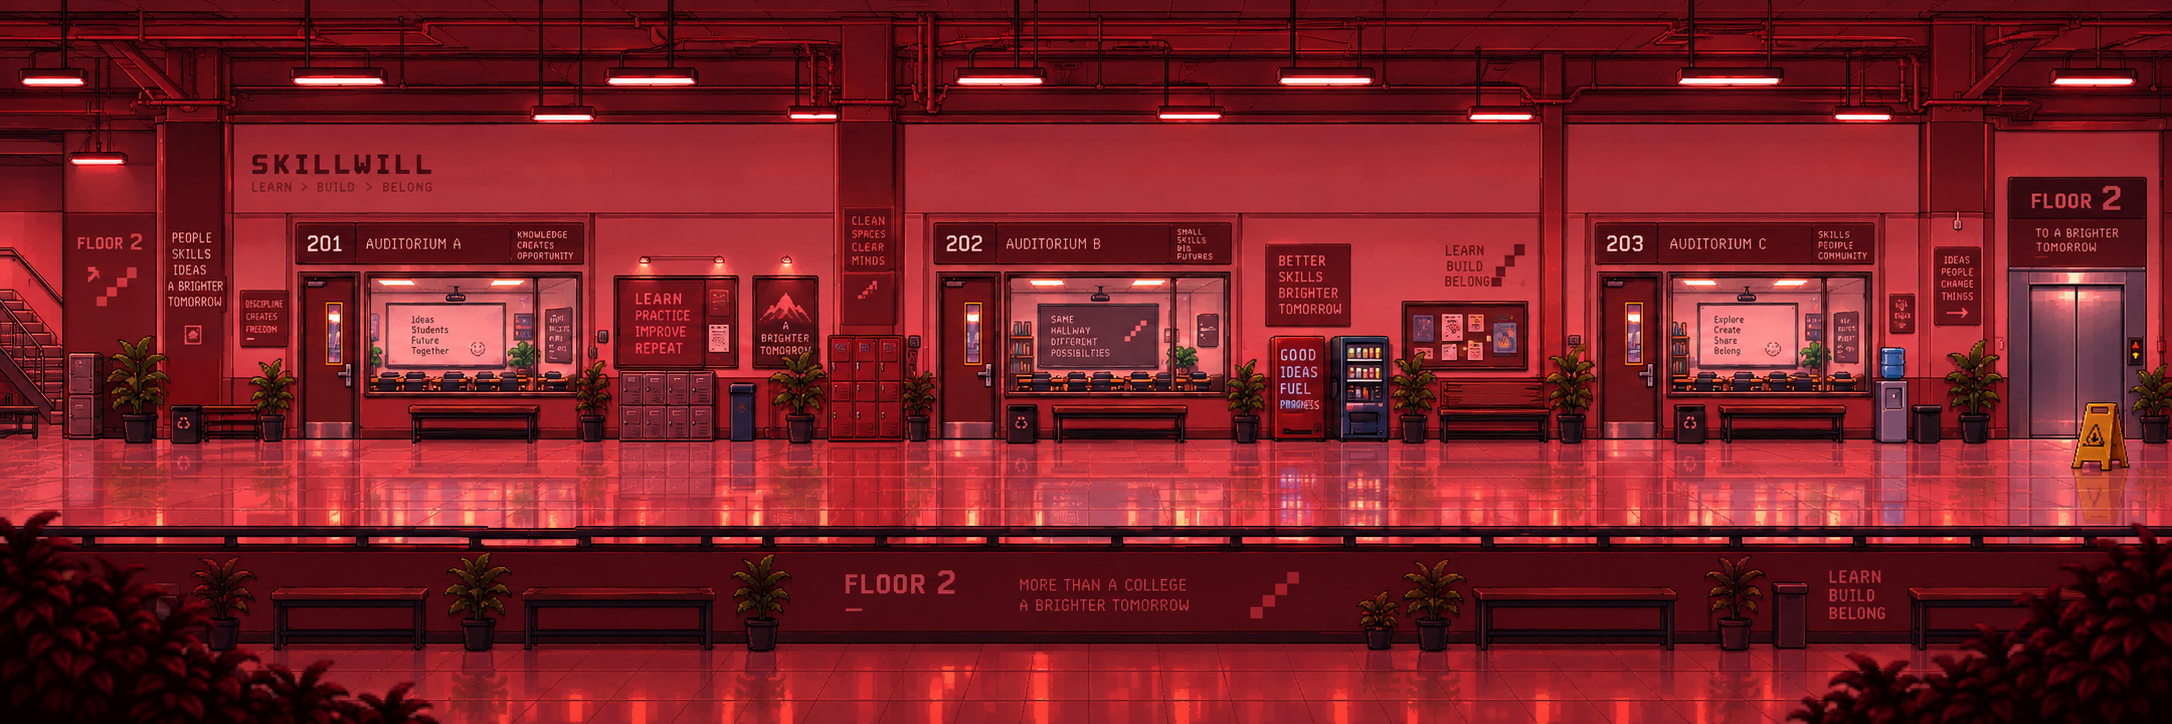
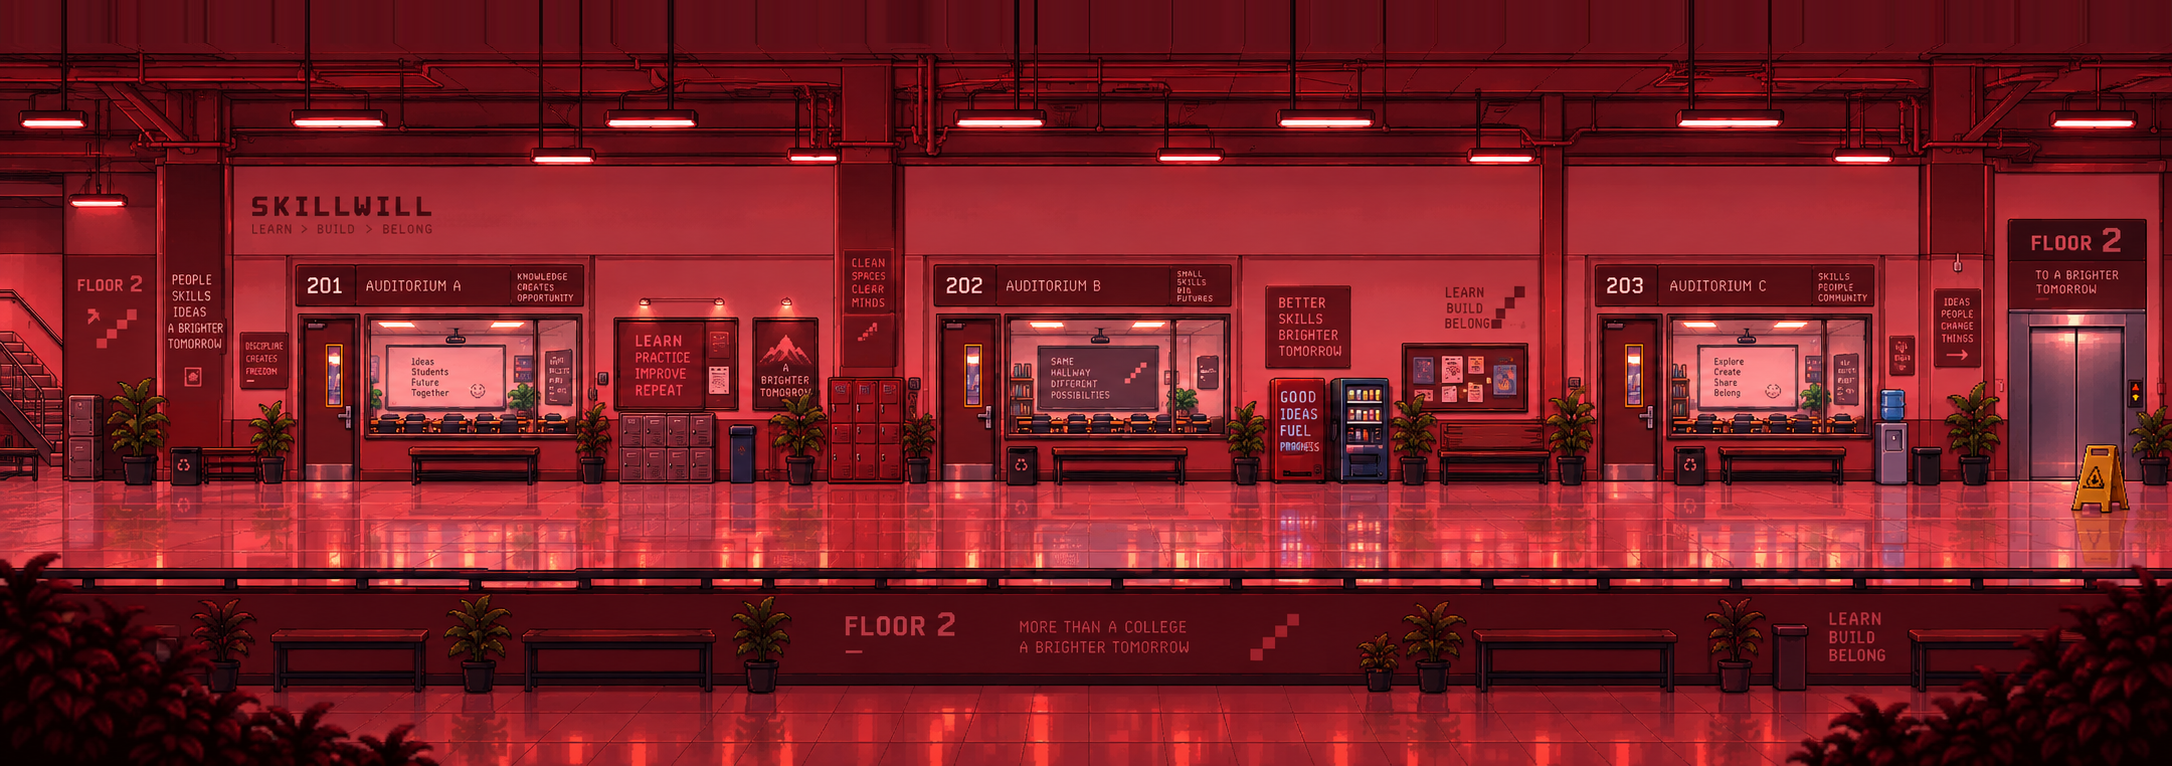
Make fullscreen opt-in only; fill every floor's background fully
- Remove the auto-startFullscreen() call on game start — it defaulted the
  game to fullscreen unasked, and triggering the Fullscreen API mid scene-
  transition is also the likely cause of the black screen on start.
  Fullscreen is now purely opt-in: press F at the title screen or anytime
  during play (wired in TitleScene and HUDScene) to toggle it via
  scale.toggleFullscreen(); the game stays windowed by default.
- Every floor's background left a visible gap of plain background color
  above and/or below the art (large on the short lobby/office floors,
  ~40px on the rest) because the source images were shorter than the
  camera viewport. Padded every level PNG in place by repeating its own
  top/bottom edge row (not adding blank space) so the art now fills the
  full viewport with zero gap on every floor, and updated each floor's
  groundY in floors.js to match (all now 480, i.e. WORLD.groundY, since
  the padding was sized specifically to make that true).

diff --git a/src/config/floors.js b/src/config/floors.js
@@ -3,24 +3,24 @@
 // edit this file — the FloorScene reads everything from here.
 //
 // Each floor's visual background is a real painted PNG at
-// public/assets/levels/<id>.png (native size 2172px wide; height varies —
-// short "band" floors like the lobby/office are ~250-275px tall, the
-// hallway/rooftop floors are 724px tall with a lot of decorative scenery
-// above the walkable strip and a bit of railing/branding below it).
+// public/assets/levels/<id>.png (native size 2172px wide, native heights
+// originally ranged from ~245px band floors up to 724px hallway/rooftop
+// floors). Every image has since been padded in place — by repeating its
+// own top/bottom edge row, not by adding blank space — so its floor line
+// lands at exactly WORLD.groundY and the art fills the full viewport with
+// no empty margin above or below, regardless of how tall the original art
+// was.
 //
-// `groundY` is the row (in that image's own native pixels, measured against
-// a fine 10px ruler overlay zoomed in on a real floor-contact object — a
-// person's shoes, a bench/chair leg, a planter base) where the floor
-// surface actually sits — i.e. where characters' feet should be. It is NOT
-// the image height: most of the tall images have several hundred px of
-// decoration below the real floor line (a glass railing + a branding
-// footer graphic), and a coarse/eyeballed measurement here is exactly what
-// causes Rati to visibly float or sink — get this one number right per
-// floor and everything else (camera framing, enemy placement) follows.
-// levelBuilder.js
-// uses groundY to shift every floor's background so its floor line lands
-// at the same world-space height (WORLD.groundY) no matter how tall or
-// short the source image is — see levelBuilder.js for the math.
+// `groundY` is the row (in that image's own native pixels) where the floor
+// surface actually sits — i.e. where characters' feet should be. Because
+// of the padding above it is 480 (== WORLD.groundY) for every floor right
+// now. It's still measured per floor (originally against a fine 10px ruler
+// overlay zoomed in on a real floor-contact object — a person's shoes, a
+// bench/chair leg, a planter base) and kept as an explicit field: if new,
+// unpadded art is ever dropped in for a floor, set this to that art's own
+// real floor row and levelBuilder.js will shift it to line up correctly —
+// a coarse/eyeballed measurement here is exactly what causes Rati to
+// visibly float or sink.
 // ---------------------------------------------------------------------------
 
 export const WORLD = {
@@ -38,23 +38,23 @@ export const FLOORS = [
     bg: 0xf5f5f0,
     ground: 0xcfcfc8,
     accent: 0xb8b8b0,
-    groundY: 248,
+    groundY: 480,
     hasCombat: false,
     enemies: { spider: 0, mob: 0 },
     intro: 'Welcome to Skillwill Tower. Head right to the elevator.'
   },
-  { id: 2, name: 'Floor 2', theme: 'red', bg: 0x5c1414, ground: 0x8a2020, accent: 0xc0392b, groundY: 438, hasCombat: true, enemies: { spider: 2, mob: 1 } },
-  { id: 3, name: 'Floor 3', theme: 'red', bg: 0x5c1414, ground: 0x8a2020, accent: 0xc0392b, groundY: 438, hasCombat: true, enemies: { spider: 3, mob: 1 } },
-  { id: 4, name: 'Floor 4', theme: 'blue', bg: 0x123049, ground: 0x1b4a70, accent: 0x2980b9, groundY: 438, hasCombat: true, enemies: { spider: 3, mob: 2 } },
-  { id: 5, name: 'Floor 5', theme: 'blue', bg: 0x123049, ground: 0x1b4a70, accent: 0x2980b9, groundY: 438, hasCombat: true, enemies: { spider: 3, mob: 2 } },
-  { id: 6, name: 'Floor 6', theme: 'yellow', bg: 0x5c4e0f, ground: 0x8a7317, accent: 0xf1c40f, groundY: 438, hasCombat: true, enemies: { spider: 4, mob: 2 } },
-  { id: 7, name: 'Floor 7', theme: 'yellow', bg: 0x5c4e0f, ground: 0x8a7317, accent: 0xf1c40f, groundY: 438, hasCombat: true, enemies: { spider: 4, mob: 2 } },
-  { id: 8, name: 'Floor 8', theme: 'purple', bg: 0x371a41, ground: 0x522862, accent: 0x8e44ad, groundY: 438, hasCombat: true, enemies: { spider: 4, mob: 3 } },
-  { id: 9, name: 'Floor 9', theme: 'purple', bg: 0x371a41, ground: 0x522862, accent: 0x8e44ad, groundY: 438, hasCombat: true, enemies: { spider: 4, mob: 3 } },
+  { id: 2, name: 'Floor 2', theme: 'red', bg: 0x5c1414, ground: 0x8a2020, accent: 0xc0392b, groundY: 480, hasCombat: true, enemies: { spider: 2, mob: 1 } },
+  { id: 3, name: 'Floor 3', theme: 'red', bg: 0x5c1414, ground: 0x8a2020, accent: 0xc0392b, groundY: 480, hasCombat: true, enemies: { spider: 3, mob: 1 } },
+  { id: 4, name: 'Floor 4', theme: 'blue', bg: 0x123049, ground: 0x1b4a70, accent: 0x2980b9, groundY: 480, hasCombat: true, enemies: { spider: 3, mob: 2 } },
+  { id: 5, name: 'Floor 5', theme: 'blue', bg: 0x123049, ground: 0x1b4a70, accent: 0x2980b9, groundY: 480, hasCombat: true, enemies: { spider: 3, mob: 2 } },
+  { id: 6, name: 'Floor 6', theme: 'yellow', bg: 0x5c4e0f, ground: 0x8a7317, accent: 0xf1c40f, groundY: 480, hasCombat: true, enemies: { spider: 4, mob: 2 } },
+  { id: 7, name: 'Floor 7', theme: 'yellow', bg: 0x5c4e0f, ground: 0x8a7317, accent: 0xf1c40f, groundY: 480, hasCombat: true, enemies: { spider: 4, mob: 2 } },
+  { id: 8, name: 'Floor 8', theme: 'purple', bg: 0x371a41, ground: 0x522862, accent: 0x8e44ad, groundY: 480, hasCombat: true, enemies: { spider: 4, mob: 3 } },
+  { id: 9, name: 'Floor 9', theme: 'purple', bg: 0x371a41, ground: 0x522862, accent: 0x8e44ad, groundY: 480, hasCombat: true, enemies: { spider: 4, mob: 3 } },
   // Second yellow zone (intentional per design) — a slightly different amber
   // shade so it reads as its own zone while staying clearly "yellow".
-  { id: 10, name: 'Floor 10', theme: 'amber', bg: 0x5c3a0f, ground: 0x8a5817, accent: 0xf39c12, groundY: 438, hasCombat: true, enemies: { spider: 5, mob: 3 } },
-  { id: 11, name: 'Floor 11', theme: 'amber', bg: 0x5c3a0f, ground: 0x8a5817, accent: 0xf39c12, groundY: 438, hasCombat: true, enemies: { spider: 5, mob: 3 } },
+  { id: 10, name: 'Floor 10', theme: 'amber', bg: 0x5c3a0f, ground: 0x8a5817, accent: 0xf39c12, groundY: 480, hasCombat: true, enemies: { spider: 5, mob: 3 } },
+  { id: 11, name: 'Floor 11', theme: 'amber', bg: 0x5c3a0f, ground: 0x8a5817, accent: 0xf39c12, groundY: 480, hasCombat: true, enemies: { spider: 5, mob: 3 } },
   {
     id: 12,
     name: 'Office',
@@ -62,7 +62,7 @@ export const FLOORS = [
     bg: 0x22303f,
     ground: 0x2c3e50,
     accent: 0x34495e,
-    groundY: 205,
+    groundY: 480,
     hasCombat: false,
     enemies: { spider: 0, mob: 0 },
     intro: 'Kosta’s office. He is waiting for you upstairs, on the balcony.'
@@ -74,7 +74,7 @@ export const FLOORS = [
     bg: 0x87ceeb,
     ground: 0x6d6d6d,
     accent: 0xffffff,
-    groundY: 475,
+    groundY: 480,
     hasCombat: true,
     isBoss: true,
     enemies: { spider: 0, mob: 0 },

diff --git a/src/scenes/TitleScene.js b/src/scenes/TitleScene.js
@@ -34,19 +34,24 @@ export default class TitleScene extends Phaser.Scene {
       color: '#777777'
     }).setOrigin(0.5);
 
+    this.add.text(width / 2, height * 0.85, 'F: Toggle Fullscreen', {
+      fontFamily: 'monospace',
+      fontSize: '15px',
+      color: '#555555'
+    }).setOrigin(0.5);
+
     this.input.keyboard.once('keydown-SPACE', () => this.startGame());
     this.input.once('pointerdown', () => this.startGame());
+
+    // Fullscreen is opt-in only — the game starts windowed by default, and
+    // the player decides for themselves whether to go fullscreen.
+    this.input.keyboard.on('keydown-F', () => {
+      if (!this.scale.fullscreen.available) return;
+      try { this.scale.toggleFullscreen(); } catch (e) { /* fullscreen not available here */ }
+    });
   }
 
   startGame() {
-    // Pressing SPACE/clicking here is a real user gesture, so this is the
-    // one place the Fullscreen API is actually allowed to succeed without
-    // a separate "click to go fullscreen" step. Some contexts (an iframe
-    // without allowfullscreen, an unsupported browser) reject it — that's
-    // fine, the game just stays windowed at its normal scaled size.
-    if (this.scale.fullscreen.available && !this.scale.isFullscreen) {
-      try { this.scale.startFullscreen(); } catch (e) { /* fullscreen not available here */ }
-    }
     resetGame();
     this.scene.start('Floor', { floorId: 1 });
     this.scene.launch('HUD');

diff --git a/src/scenes/HUDScene.js b/src/scenes/HUDScene.js
@@ -25,6 +25,12 @@ export default class HUDScene extends Phaser.Scene {
     }).setScrollFactor(0).setDepth(1001);
     this.mindBlowBarBg = this.add.rectangle(18, 96, 160, 12, 0x000000).setOrigin(0, 0).setScrollFactor(0).setDepth(1000);
     this.mindBlowBarFill = this.add.rectangle(20, 98, 156, 8, 0x8e44ad).setOrigin(0, 0).setScrollFactor(0).setDepth(1001);
+
+    // Fullscreen is opt-in only, toggleable anytime during play too.
+    this.input.keyboard.on('keydown-F', () => {
+      if (!this.scale.fullscreen.available) return;
+      try { this.scale.toggleFullscreen(); } catch (e) { /* fullscreen not available here */ }
+    });
   }
 
   update() {
